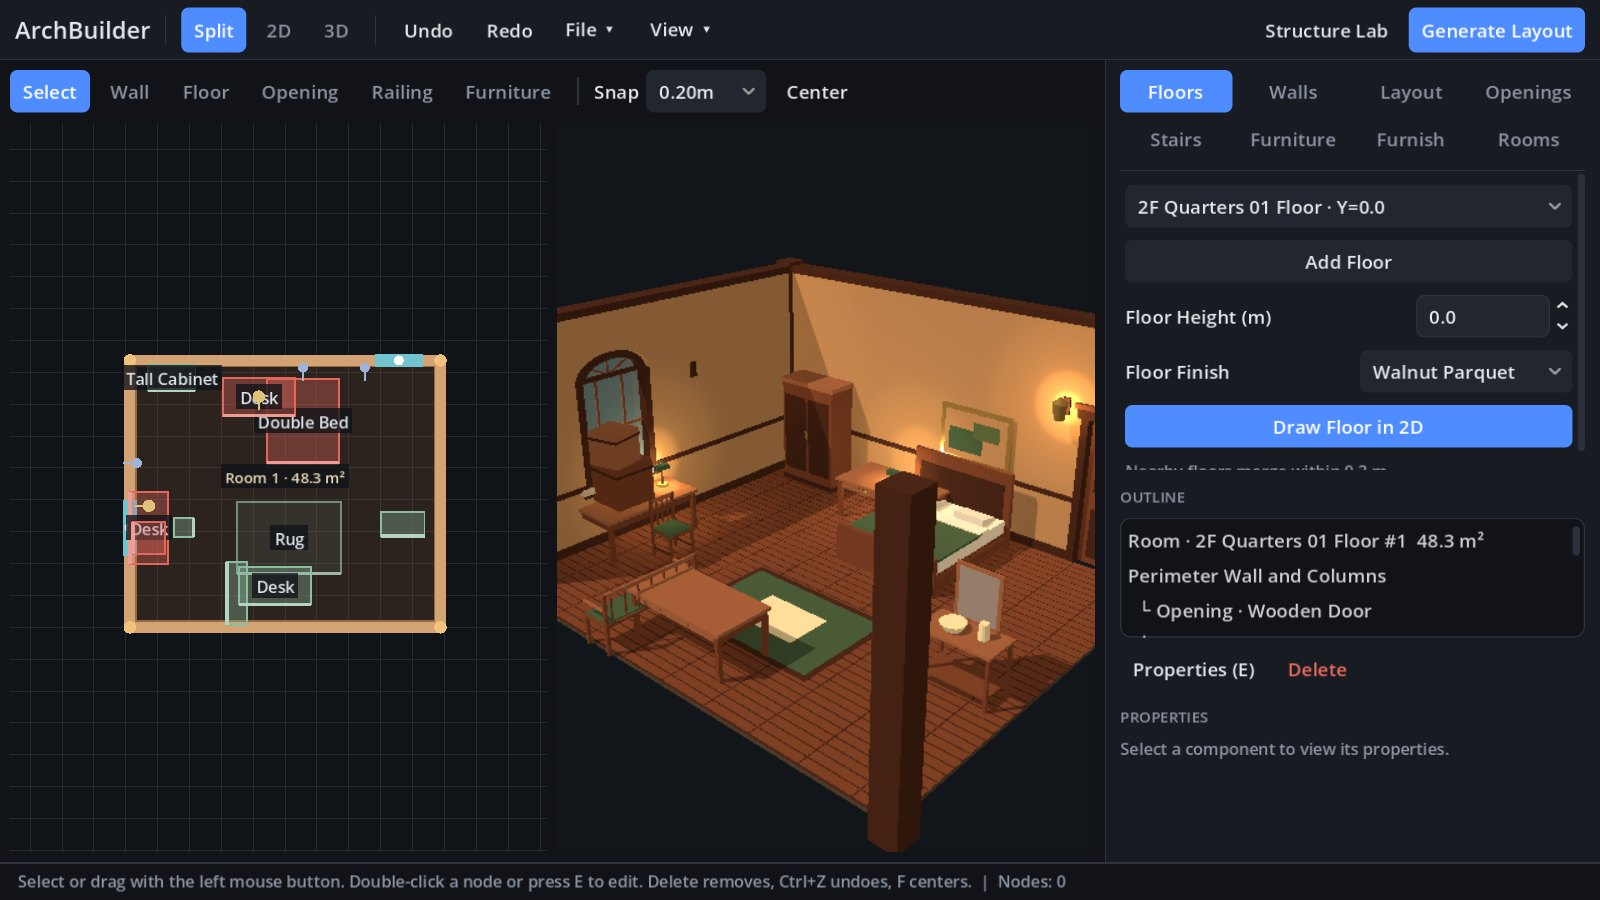
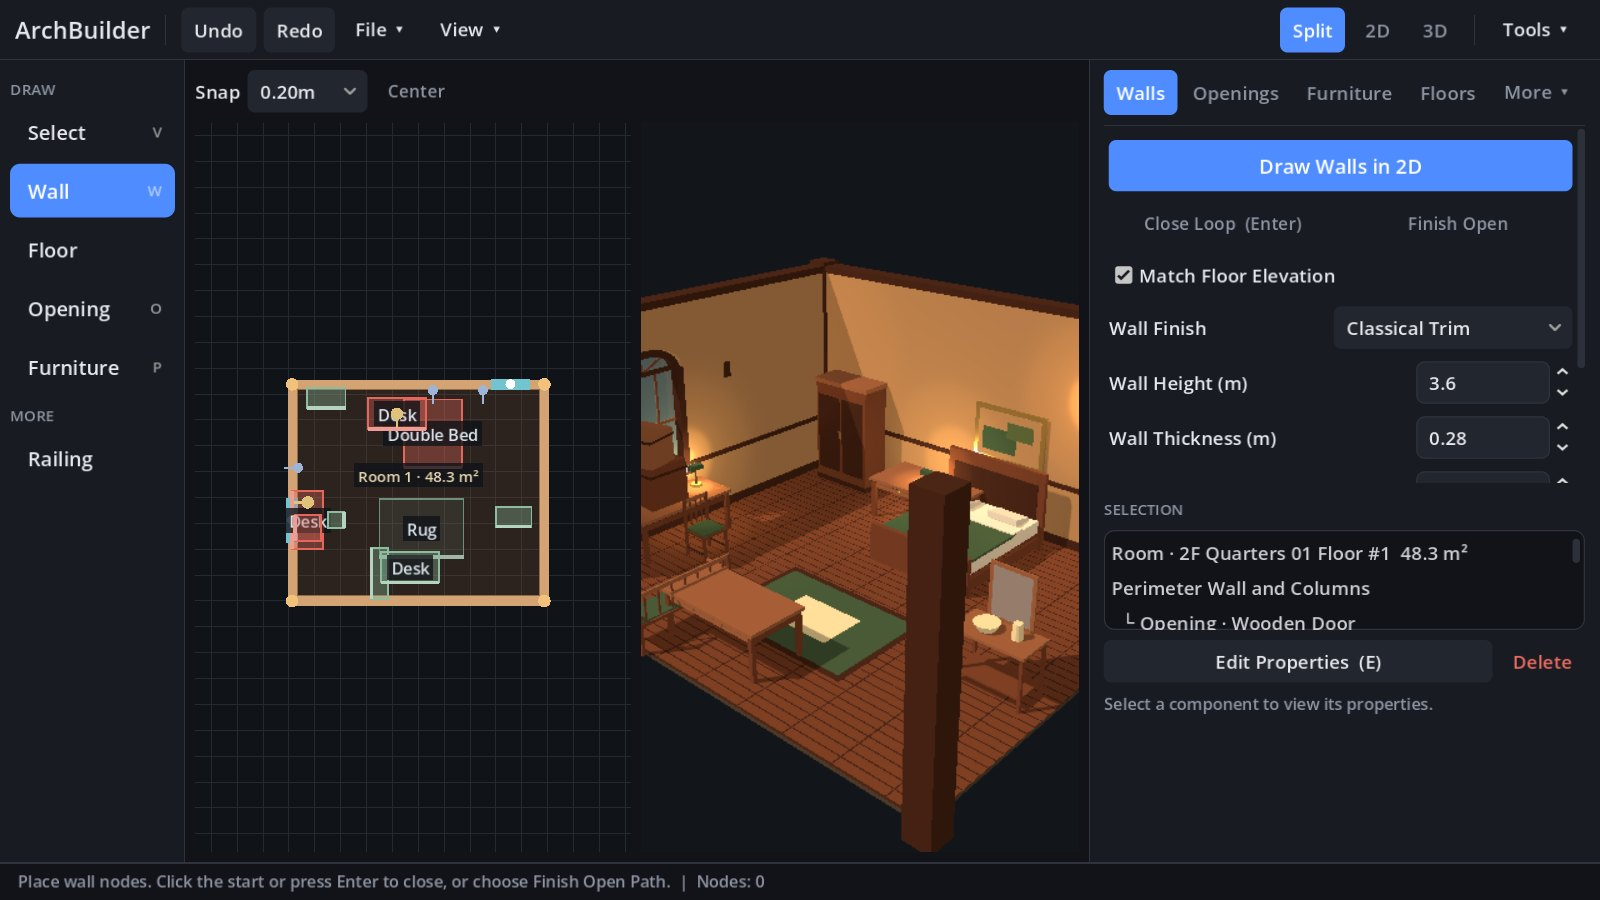
Building tools: clear primary/secondary hierarchy, surface frequent tools
- ToolTheme: three emphasis tiers (Primary / Button / muted Flat), RailButton, ChipButton, KeyLabel.
- ArchBuilder: large left tool rail with shortcuts; picking a tool opens its settings page;
  4 frequent pages + More menu; each page leads with its primary action; rare tools in Tools menu;
  draggable split between settings and selection/properties; component library first on Furniture page.
- Component Library: cross-category search, RECENT chips, inspector ordered by frequency
  (transform, interaction, parameters, mechanism last), compact SCENE row.
- tools-guide: updated screenshots/tables; records which levels' structures are not yet on ArchBuilder.

diff --git a/docs/production/tools-guide.md b/docs/production/tools-guide.md
@@ -17,7 +17,15 @@
 
 三个工具读的是同一份物品目录（`ComponentFactory.load_catalog()`）。物品只存数据，提示框由所在关卡的运行时统一绘制。
 
-两个编辑工具共用一套现代简洁主题 `tools/building_construction/ToolTheme.gd`：深色平面、单一蓝色强调色、圆角控件。蓝色实心按钮是当前页面的主操作，红色文字按钮是删除类操作，灰色小号大写字是分组标题。
+两个编辑工具共用一套现代简洁主题 `tools/building_construction/ToolTheme.gd`，按“主次三级”排版，眼睛先落在最常用的那一步：
+
+| 层级 | 样式 | 用在哪 |
+|---|---|---|
+| 一级 · 主操作 | 蓝色实心大按钮，每个区域最多一个 | 这一页通常要做的下一步，如 `Draw Walls in 2D`、`Place Component in 2D`、`Make selectable`、`Save Candidate` |
+| 二级 · 常规操作 | 灰底按钮 | `Undo / Redo`、`Edit Properties`、`Open Component Library` |
+| 三级 · 低频操作 | 无底色的灰字 | `Close Loop`、`Preview at Coordinates`、`Show All`、机关测试按钮 |
+| 危险操作 | 红字 | `Delete`、`Remove interaction` |
+| 分组标题 | 灰色小号大写字 | DRAW、SELECTION、TRANSFORM、INTERACTION…… |
 
 ---
 
@@ -29,12 +37,12 @@
 
 | 区域 | 位置 | 用法 |
 |---|---|---|
-| 顶栏 | 最上方 | `Split / 2D / 3D` 分段按钮切换视图；`Undo / Redo`；`File ▾` 导入/保存 JSON、YAML，或导出 Godot 场景；`View ▾` 线框、剖面、显隐。右侧 `Structure Lab` 打开结构实验室，蓝色 `Generate Layout` 自动布局 |
-| 工具条 | 第二行 | 一组互斥的绘制工具，当前工具高亮为蓝色：`Select`(V)、`Wall`(W)、`Floor`、`Opening`(O)、`Railing`、`Furniture`(P)，快捷键见悬停提示；`Snap` 设置吸附步长，`Center`(F) 居中；最右侧实时显示光标坐标和所在房间 |
-| 左侧 2D 平面 | 左半边 | 点击落节点；回车或点回起点闭合；拖动可移动；双击节点或按 E 编辑 |
-| 中间 3D 预览 | 中间 | 和平面同步生成，可以直接看墙洞、采光和家具尺度 |
-| 右侧页签 | 右上 | 8 个页签平铺成 2×4 按钮，一眼可见：Floors / Walls / Layout / Openings / Stairs / Furniture / Furnish / Rooms，分别设置楼层高度、材质、门窗、楼梯、家具和房型预设。每页的蓝色按钮就是这一页最常用的一步 |
-| OUTLINE / PROPERTIES | 右下 | 大纲列出房间、墙和开口；选中后下方直接显示参数，点 `Properties (E)` 弹出大窗口编辑，红色 `Delete` 删除 |
+| 左侧工具栏 | 最左 | **最常用的绘制工具**，大号竖排，右侧标着快捷键：`Select`(V)、`Wall`(W)、`Floor`、`Opening`(O)、`Furniture`(P)；低频的 `Railing` 放在 MORE 下面。当前工具整块高亮为蓝色 |
+| 顶栏 | 最上方 | 左边是 `Undo / Redo`、`File ▾`（导入/保存 JSON、YAML，导出 Godot 场景）、`View ▾`（线框、剖面、显隐）；右边是 `Split / 2D / 3D` 视图切换和 `Tools ▾`（低频的 Generate Layout、Structure Lab） |
+| 情境栏 | 视图上方 | `Snap` 吸附步长、`Center`(F) 居中，最右是光标坐标和所在房间 |
+| 中间视图 | 中间 | 左边 2D 平面（点击落节点；回车或点回起点闭合；拖动移动；双击节点或按 E 编辑），右边同步的 3D 预览 |
+| 右侧设置页 | 右上 | 常用的 `Walls / Openings / Furniture / Floors` 平铺，低频的 Stairs / Layout / Furnish / Rooms 收进 `More ▾`。**选工具会自动打开对应设置页**（选 Wall 就到 Walls 页）。每页最上面的蓝色按钮就是这页的主操作，参数在它下面 |
+| SELECTION | 右下 | 大纲列出房间、墙和开口，选中后下方直接显示参数；`Edit Properties (E)` 弹出大窗口编辑，红色 `Delete` 删除。设置页和这块之间的分隔条可以上下拖动 |
 | 状态栏 | 最底部 | 当前工具的操作提示、已放节点数，以及预览/应用的结果 |
 
 常用快捷键：`Ctrl+Z` 撤销，`Delete` 删除，`F` 居中。
@@ -43,8 +51,8 @@
 
 ![ArchBuilder Furniture 页](media/tools/02_archbuilder_props.jpg)
 
-- 上半部分是原有家具和灯具：`Fixture` 下拉框选家具，填灯光强度、安装高度和坐标，然后点 `Preview Furniture at Coordinates` 预览，或点 `Place Original Furniture in 2D` 在平面上点击放置。
-- 下半部分是 **NATIVE COMPONENT LIBRARY**：列出共享目录里的全部组件，可用搜索框过滤。选中后点 `Place Component in 2D` 放到平面里，或点蓝色 **`Open Component Library`** 进入下面的物品属性工具。
+- 上半部分是更常用的 **COMPONENT LIBRARY**：列出共享目录里的全部组件，可用搜索框过滤。选中后点蓝色 `Place Component in 2D` 放到平面里，或点 **`Open Component Library`** 进入下面的物品属性工具。
+- 下半部分是 **BUILT-IN FIXTURES**（原有家具和灯具）：`Fixture` 下拉框选家具，填灯光强度、安装高度和坐标，然后点 `Place Fixture in 2D` 在平面上点击放置，或点 `Preview at Coordinates` 按坐标预览。
 
 ---
 
@@ -54,10 +62,12 @@
 
 | 区域 | 用法 |
 |---|---|
-| 左侧 · CATALOG | 下拉框选分类（如 Props and Equipment），列表选物品后，在 3D 视图里点击支撑面放置。`R` 旋转，`F` 换端或换栏杆侧；右键拖动环绕，`Shift`+右键拖动平移，滚轮缩放；`Esc` 取消放置 |
-| 左侧 · SCENE | `Undo / Redo`，红色 `Delete`；下面是当前候选场景里的所有物品（如 RecipeTable / RecipeChest / RecipeBookshelf），点击即可选中 |
-| 左侧 · FILE | 蓝色 `Save Candidate` 保存、`Open Candidate` 打开候选场景；`Show All` 一次性生成全部组件用来对比；`Screenshot` 截图 |
-| 右侧 · 检视器 | 选中物品后按分组显示：MECHANISM（机关活动）、TRANSFORM（位置和旋转，每个向量一行 X/Y/Z）、**INTERACTION**、PARAMETERS（尺寸、层数等）。数值和开关是“左边名字、右边控件”的属性表 |
+| 左侧 · 搜索框 | 最上方，跨所有分类搜索物品名 |
+| 左侧 · RECENT | 最近放过的物品（最多 6 个），点一下就能接着放同一件 |
+| 左侧 · CATALOG | 下拉框选分类（如 Props and Equipment），列表选物品后，在 3D 视图里点击支撑面放置。`R` 旋转，`F` 换端或换栏杆侧；右键拖动环绕，`Shift`+右键拖动平移，滚轮缩放 |
+| 左侧 · SCENE | `Esc` 取消放置、`Undo / Redo`、红色 `Delete`；下面是当前候选场景里的所有物品，点击即可选中 |
+| 左侧 · FILE | 蓝色 `Save Candidate` 保存，`Open Candidate` 打开候选场景；`Show All` 一次性生成全部组件用来对比；`Screenshot` 截图 |
+| 右侧 · 检视器 | 按使用频率从上到下：TRANSFORM（位置和旋转，每个向量一行 X/Y/Z）、**INTERACTION**、PARAMETERS（尺寸、层数等），最后才是低频的 MECHANISM（机关活动和测试按钮）。数值和开关是“左边名字、右边控件”的属性表 |
 
 ### Interaction 区：配置“这件物品能不能被选中、按 E 做什么”
 
@@ -187,3 +197,18 @@ python tools/inspect_level.py --scene r01
 | 数据形态 | JSON/YAML 文档，可导出 Godot 场景 | Godot 场景（`.tscn`） |
 | 物品来源 | 同一份 `catalog.json` | 同一份 `catalog.json` |
 | 进游戏 | 关卡清单引用房间与家具 | 物品上的 `Interactable` 由关卡运行时统一显示 |
+
+## 6. 现状：主要关卡的结构还没有接入 ArchBuilder
+
+2026-11-28 盘点：关卡**家具**大多已走统一家具库（`AcademyFurnitureCatalog` → `ComponentFactory`），但**建筑结构**（墙、地面、门窗、拱顶）基本都是各关卡自己用代码或其他格式搭的，没有读 ArchBuilder 文档。
+
+| 关卡 | 结构从哪来 | 家具从哪来 | 读 ArchBuilder 文档 |
+|---|---|---|---|
+| 公共大厅（FirstWatch 营地） | 地面与碰撞读 FreeSO XML `content/academy_lots/public_nave.xml`；可见的哥特外壳全部写在 `PublicHallGothic.gd` 代码里 | 统一家具库，坐标手写 | 否 |
+| 战役房间（foyer、lecture、clinic 等） | XML 地块 + `LotGeometryBuilder` 生成方块墙；过场布景是 GLB | XML 物件按 GUID 画占位剪影 | 否（XML 是早先从 `architect_rooms.json` 离线转出的） |
+| 厨房（kitchen） | 读 `content/archbuilder/hot-kitchen.json`，`HotKitchen.gd` 自己挤出墙体与门窗 | 只取文档里的家具锚点，器物手写 | **是**（唯一一个） |
+| Expedition-01 | `ExpeditionKit.gd` / `Masonry.gd` 代码拼方块 | 主要手写，只有书架走家具库 | 否 |
+| 第一章 R01 | `Chapter1R01Level.gd` 里一块地板两面墙的占位 | 关卡清单 `objects[]` 走家具库 | 否 |
+| 物理实验室各房间 | 各自代码，只借用了 ArchBuilder 的肋拱几何函数 | 各自代码 | 否 |
+
+可复用的桥接代码：`HotKitchen.gd` 的文档读取与墙体挤出、`RoomBlockout.gd` 用 `WallPathGeometry.build` 生成外壳。
